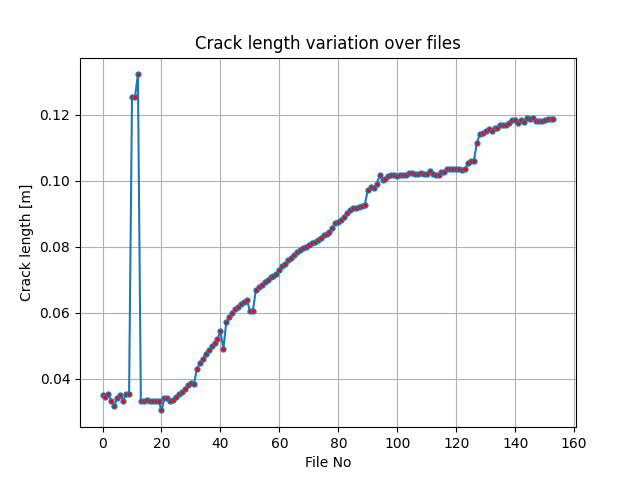
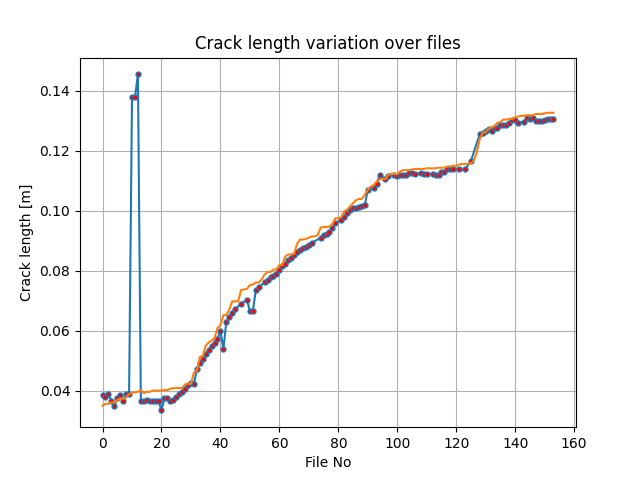
Added manual readings for comparison

diff --git a/image_processing.py b/image_processing.py
@@ -5,6 +5,7 @@ import matplotlib.pyplot as plt
 from natsort import natsorted
 import time
 import pathlib
+from lengths import print_result
 start_time = time.time()
 point_one_cm = 10 # [pixels]
 one_cm = point_one_cm * 10 # [pixels]
@@ -17,6 +18,7 @@ What happens in this file rn:
 -grayscale the images
 -
 '''
+manual_crack_lengths = print_result()
 
 p = pathlib.PurePath(__file__)
 source = p.parents[0] #
@@ -301,8 +303,8 @@ def crack_length(type, file_no, width, height, hor_region_percent_1, hor_region_
 
     # Saving both the image with the edge detection and the original one but with the contour and two points on it
     image_name_edged = 'a1_{}_{}_edge.bmp'.format(type, file_no)
-    cv2.imwrite(os.path.join(dir_path+'\\contours', image_name), image)
-    cv2.imwrite(os.path.join(dir_path+'\\contours', image_name_edged), edged)
+    # cv2.imwrite(os.path.join(dir_path+'\\contours', image_name), image)
+    # cv2.imwrite(os.path.join(dir_path+'\\contours', image_name_edged), edged)
     print('Finished file number: {}'.format(file_no))
 
 width = 2048
@@ -372,6 +374,7 @@ for i in range(files_list_len):
 
 plt.figure()
 plt.plot(files_list_reduced, crack_lengths_reduced, marker = '.', markerfacecolor = 'red', markersize = 7)
+plt.plot(files_list, manual_crack_lengths)
 plt.xlabel('File No')
 plt.ylabel('Crack length [m]')
 plt.title('Crack length variation over files')

diff --git a/lengths.py b/lengths.py
@@ -155,11 +155,13 @@ lengthslist = [
 ,0.132708333
 ,0.132708333
 ]
-print(len(lengthslist))
-fileslist=[*range(154)]
-plt.figure()
-plt.plot(fileslist, lengthslist)
-plt.show()
+def print_result():
+    return lengthslist
+if __name__ == '__main__':
+    fileslist=[*range(154)]
+    plt.figure()
+    plt.plot(fileslist, lengthslist)
+    plt.show()
 
 
 
